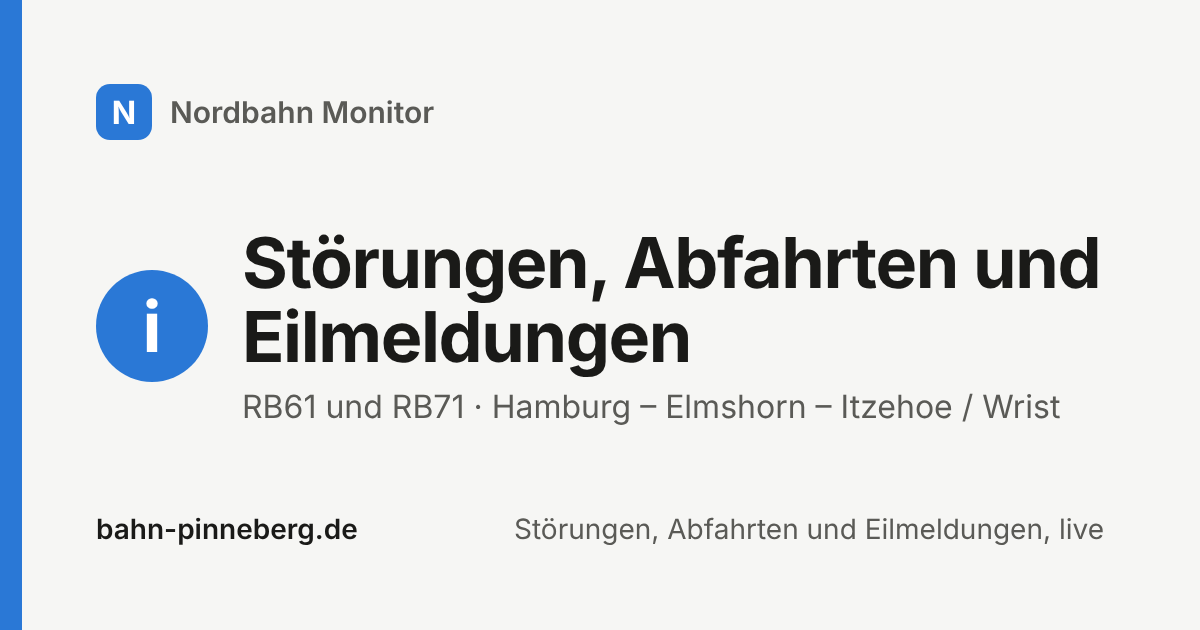
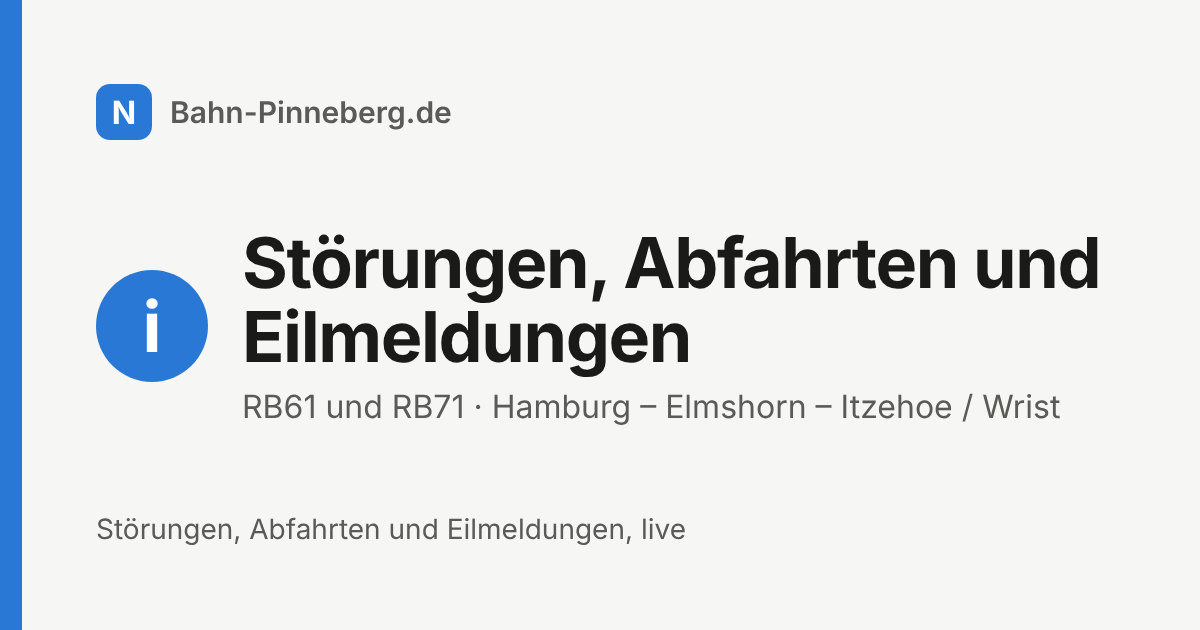
Neuer Name: Bahn-Pinneberg.de statt Nordbahn Monitor
Der Header zeigt nur noch "Bahn-Pinneberg.de" statt "Nordbahn Monitor ·
bahn-pinneberg.de". Der Name ersetzt "Nordbahn Monitor" auch in
Seitentiteln, Strukturdaten (alter Name als alternateName), og:site_name,
Footer, Benachrichtigungen, Manifest, Impressum, FAQ, llms.txt, lage.md
und den Vorschaubildern (neu gebaut). Alte Changelog-Einträge und
Code-Kommentare bleiben.

Claude-Session: https://claude.ai/code/session_01KhF188QwqAjarw5KrHzToa

Changed region(s): [[0.0617, 0.8143, 0.925, 0.8746], [0.1233, 0.1508, 0.37, 0.2111]]

diff --git a/dev/og/build.js b/dev/og/build.js
@@ -2,19 +2,11 @@
 //
 //   node dev/og/build.js            (braucht: npm i -g playwright, Chromium)
 //
-// Die Domain im Fuss kommt aus NORDBAHN_SITE_URL in config.php, sonst
-// bahn-pinneberg.de. Farben wie die Lagekarten der Seite.
+// Farben wie die Lagekarten der Seite.
 const { chromium } = require('playwright');
 const path = require('path');
-const fs = require('fs');
 
 const root = path.resolve(__dirname, '..', '..');
-let domain = 'bahn-pinneberg.de';
-try {
-  const cfg = fs.readFileSync(path.join(root, 'config.php'), 'utf8');
-  const m = cfg.match(/NORDBAHN_SITE_URL'\s*=>\s*'https?:\/\/([^'\/]+)/);
-  if (m) domain = m[1];
-} catch (e) { /* keine config.php: Standard */ }
 
 const LAGEN = [
   { name: 'ok',    color: '#1aa139', icon: '✓', title: 'Keine Störung auf der Strecke' },
@@ -33,8 +25,7 @@ const LAGEN = [
       document.body.style.setProperty('--c', l.color);
       document.getElementById('icon').textContent = l.icon;
       document.getElementById('title').textContent = l.title;
-      document.getElementById('domain').textContent = l.domain;
-    }, { ...l, domain });
+    }, l);
     const out = path.join(root, 'og', l.name + '.png');
     await page.screenshot({ path: out, type: 'png' });
     console.log('geschrieben', path.relative(root, out));

diff --git a/dashboard.css b/dashboard.css
@@ -110,10 +110,6 @@ button { font: inherit; color: inherit; }
 .site-head { border-bottom: 1px solid var(--line); background: var(--surface); }
 .site-head__row { display: flex; justify-content: space-between; align-items: center; height: 48px; }
 .site-head__brand { font-weight: 600; text-decoration: none; font-size: 14px; }
-.site-head__domain { font-weight: 400; color: var(--muted); }
-.site-head__domain::before { content: "\00b7"; margin: 0 6px 0 2px; }
-@media (max-width: 359px) { .site-head__domain { display: none; } }
-@media (max-width: 560px) { .site-head__row:has(.zurueck) .site-head__domain { display: none; } }
 .site-head__tools { display: flex; gap: 4px; align-items: center; }
 .tool {
 	display: inline-flex; align-items: center; gap: 6px; height: 32px; padding: 0 10px; border-radius: 8px;

diff --git a/dev/og/template.html b/dev/og/template.html
@@ -18,8 +18,8 @@ body { width: 1200px; height: 630px; font-family: Inter, system-ui, sans-serif; 
 </style></head><body>
 <div class="bar"></div>
 <div class="wrap">
-  <div class="brand"><div class="n">N</div>Nordbahn Monitor</div>
+  <div class="brand"><div class="n">N</div>Bahn-Pinneberg.de</div>
   <div class="status"><div class="icon" id="icon">✓</div><div><div class="title" id="title">Keine Störung auf der Strecke</div><div class="sub">RB61 und RB71 · Hamburg – Elmshorn – Itzehoe / Wrist</div></div></div>
-  <div class="foot"><span><b id="domain">bahn-pinneberg.de</b></span><span>Störungen, Abfahrten und Eilmeldungen, live</span></div>
+  <div class="foot"><span>Störungen, Abfahrten und Eilmeldungen, live</span></div>
 </div>
 </body></html>

diff --git a/dashboard.js b/dashboard.js
@@ -1100,7 +1100,7 @@
 						var body = pushActive()
 							? 'Du bekommst jetzt eine Meldung bei neuen Zugausfällen und Störungen, auch wenn die Seite zu ist.'
 							: 'Du bekommst jetzt eine Meldung bei neuen Zugausfällen und Störungen, solange die Seite offen ist.';
-						new Notification('Nordbahn Monitor', { body: body, icon: root() + 'favicon.svg', lang: 'de' });
+						new Notification('Bahn-Pinneberg.de', { body: body, icon: root() + 'favicon.svg', lang: 'de' });
 					} catch (e) { /* egal */ }
 					renderNotifyButton();
 				};

diff --git a/sw.js b/sw.js
@@ -18,7 +18,7 @@ self.addEventListener('push', function (event) {
 		data: { url: data.url || './' }
 	};
 	if (data.ts) options.timestamp = data.ts * 1000;
-	event.waitUntil(self.registration.showNotification(data.title || 'Nordbahn Monitor', options));
+	event.waitUntil(self.registration.showNotification(data.title || 'Bahn-Pinneberg.de', options));
 });
 
 self.addEventListener('notificationclick', function (event) {

diff --git a/impressum/index.php b/impressum/index.php
@@ -27,10 +27,9 @@ $imp += [
 ];
 $vollstaendig = $imp['name'] !== '' && $imp['strasse'] !== '' && $imp['ort'] !== '' && $imp['email'] !== '';
 $anschrift = array_values(array_filter([$imp['name'], $imp['zusatz'], $imp['strasse'], $imp['ort'], $imp['land']], 'strlen'));
-$host = nordbahn_site_host();
 
-$title = 'Impressum und Datenschutz – Nordbahn Monitor';
-$description = 'Anbieterkennzeichnung und Datenschutzerklärung des Nordbahn Monitors auf ' . $host . '.';
+$title = 'Impressum und Datenschutz – Bahn-Pinneberg.de';
+$description = 'Anbieterkennzeichnung und Datenschutzerklärung von Bahn-Pinneberg.de.';
 ?>
 <!DOCTYPE html>
 <html lang="de">
@@ -45,7 +44,7 @@ $description = 'Anbieterkennzeichnung und Datenschutzerklärung des Nordbahn Mon
 <meta name="theme-color" content="#f6f6f4" media="(prefers-color-scheme: light)">
 <meta name="theme-color" content="#121211" media="(prefers-color-scheme: dark)">
 <meta property="og:type" content="website">
-<meta property="og:site_name" content="Nordbahn Monitor">
+<meta property="og:site_name" content="Bahn-Pinneberg.de">
 <meta property="og:locale" content="de_DE">
 <meta property="og:url" content="<?= SITE_URL ?>/impressum/">
 <meta property="og:title" content="<?= nb_e($title) ?>">
@@ -59,7 +58,7 @@ $description = 'Anbieterkennzeichnung und Datenschutzerklärung des Nordbahn Mon
 
 <header class="site-head">
 	<div class="wrap site-head__row">
-		<a class="site-head__brand" href="<?= $root ?>">Nordbahn Monitor <span class="site-head__domain"><?= nb_e($host) ?></span></a>
+		<a class="site-head__brand" href="<?= $root ?>">Bahn-Pinneberg.de</a>
 		<nav class="site-head__tools" aria-label="Zur&uuml;ck">
 			<a class="tool" href="<?= $root ?>">Zur Lage</a>
 		</nav>
@@ -70,7 +69,7 @@ $description = 'Anbieterkennzeichnung und Datenschutzerklärung des Nordbahn Mon
 	<div class="page-head">
 		<div>
 			<h1>Impressum</h1>
-			<p class="page-head__lead">Wer hinter dem Nordbahn Monitor steht und was mit Ihren Daten passiert.</p>
+			<p class="page-head__lead">Wer hinter Bahn-Pinneberg.de steht und was mit Ihren Daten passiert.</p>
 		</div>
 	</div>
 
@@ -87,7 +86,7 @@ $description = 'Anbieterkennzeichnung und Datenschutzerklärung des Nordbahn Mon
 			<p><strong>Die Anbieterangaben sind noch nicht hinterlegt.</strong> Sie werden in der Konfiguration des Servers gepflegt (NORDBAHN_IMPRESSUM in config.php).</p>
 <?php endif; ?>
 			<h2>Hinweis zum Projekt</h2>
-			<p>Der Nordbahn Monitor ist ein privates, nicht kommerzielles Projekt ohne Verbindung zur NBE Nordbahn Eisenbahngesellschaft mbH, zur DB InfraGO AG oder zur NAH.SH GmbH. Alle Angaben zu St&ouml;rungen, Abfahrten und Eilmeldungen stammen aus &ouml;ffentlichen Quellen (nordbahn.de, strecken-info.de, HVV-Schnittstelle) und werden automatisch aufbereitet. F&uuml;r Richtigkeit, Vollst&auml;ndigkeit und Aktualit&auml;t wird keine Gew&auml;hr &uuml;bernommen. Verbindlich sind allein die Ausk&uuml;nfte der Nordbahn.</p>
+			<p>Bahn-Pinneberg.de ist ein privates, nicht kommerzielles Projekt ohne Verbindung zur NBE Nordbahn Eisenbahngesellschaft mbH, zur DB InfraGO AG oder zur NAH.SH GmbH. Alle Angaben zu St&ouml;rungen, Abfahrten und Eilmeldungen stammen aus &ouml;ffentlichen Quellen (nordbahn.de, strecken-info.de, HVV-Schnittstelle) und werden automatisch aufbereitet. F&uuml;r Richtigkeit, Vollst&auml;ndigkeit und Aktualit&auml;t wird keine Gew&auml;hr &uuml;bernommen. Verbindlich sind allein die Ausk&uuml;nfte der Nordbahn.</p>
 			<h2>Haftung f&uuml;r Links</h2>
 			<p>Die Seite verlinkt auf Angebote Dritter (nordbahn.de, strecken-info.de, Telegram, X). Auf deren Inhalte habe ich keinen Einfluss; es gelten die Angaben der jeweiligen Anbieter.</p>
 		</div>

diff --git a/changelog/index.php b/changelog/index.php
@@ -15,6 +15,7 @@ $assetVersion = (int) @filemtime(__DIR__ . '/../dashboard.css');
 
 $changelog = [
     ['2026-10-23', [
+        ['Neuer Name: Bahn-Pinneberg.de', 'Die Seite heißt jetzt wie ihre Adresse. Im Header steht nur noch „Bahn-Pinneberg.de“ statt „Nordbahn Monitor · bahn-pinneberg.de“, ebenso in Seitentiteln, Footer, Benachrichtigungen, App-Name und Vorschaubildern.'],
         ['Eilmeldungskarte ohne alten Hinweis', 'Die grüne Karte „Keine akuten Eilmeldungen“ nennt die letzte Meldung („Letzte vor 6 Std.“) nur noch bis zwölf Stunden danach. Die Nordbahn liefert keine Gültigkeit mit, der Hinweis soll nur zeigen, ob eine jüngere Meldung noch nachwirken kann.'],
         ['Ein Bereich „Aktuelle Meldungen“', 'Statt vier Listen („Wichtig in den letzten 24 Stunden“, „Letzte Eilmeldungen“, „Letzte Infrastrukturstörungen“, „Letzte HVV-Meldungen“) gibt es direkt unter den Lagekarten einen Bereich mit dem, was gerade gilt: Eilmeldungen der letzten vier Stunden, Störungen bis eine Stunde nach ihrer Aufhebung und ungeplante HVV-Meldungen. Geplante HVV-Hinweise wie Bauarbeiten oder Vorankündigungen fallen weg, weil ihr Zeitraum oft nur der der Ankündigung ist. Doppelte HVV-Meldungen erscheinen nur einmal. Ist nichts los, bleibt eine Zeile übrig. Der Rückblick steht unter „Verlauf“ sowie bei allen Eilmeldungen und Störungen.'],
     ]],
@@ -96,12 +97,12 @@ $changelog = [
 $jsonLd = [
     '@context' => 'https://schema.org',
     '@type' => 'WebPage',
-    'name' => 'Was ist neu – Nordbahn Monitor',
+    'name' => 'Was ist neu – Bahn-Pinneberg.de',
     'url' => SITE_URL . '/changelog/',
     'inLanguage' => 'de',
 ];
-$title = 'Was ist neu – Nordbahn Monitor';
-$description = 'Alle Änderungen am Nordbahn Monitor nach Datum: neue Funktionen, Korrekturen und Anpassungen an Lage, Abfahrten und Eilmeldungen.';
+$title = 'Was ist neu – Bahn-Pinneberg.de';
+$description = 'Alle Änderungen an Bahn-Pinneberg.de nach Datum: neue Funktionen, Korrekturen und Anpassungen an Lage, Abfahrten und Eilmeldungen.';
 
 function nb_datum($iso)
 {
@@ -123,7 +124,7 @@ function nb_datum($iso)
 <meta name="theme-color" content="#f6f6f4" media="(prefers-color-scheme: light)">
 <meta name="theme-color" content="#121211" media="(prefers-color-scheme: dark)">
 <meta property="og:type" content="website">
-<meta property="og:site_name" content="Nordbahn Monitor">
+<meta property="og:site_name" content="Bahn-Pinneberg.de">
 <meta property="og:locale" content="de_DE">
 <meta property="og:url" content="<?= SITE_URL ?>/changelog/">
 <meta property="og:title" content="<?= nb_e($title) ?>">
@@ -141,7 +142,7 @@ function nb_datum($iso)
 
 <header class="site-head">
 	<div class="wrap site-head__row">
-		<a class="site-head__brand" href="<?= $root ?>">Nordbahn Monitor <span class="site-head__domain"><?= htmlspecialchars(nordbahn_site_host(), ENT_QUOTES, 'UTF-8') ?></span></a>
+		<a class="site-head__brand" href="<?= $root ?>">Bahn-Pinneberg.de</a>
 		<nav class="site-head__tools" aria-label="Zur&uuml;ck">
 			<a class="tool" href="<?= $root ?>">Zur Lage</a>
 		</nav>
@@ -152,7 +153,7 @@ function nb_datum($iso)
 	<div class="page-head">
 		<div>
 			<h1>Was ist neu</h1>
-			<p class="page-head__lead">Alle &Auml;nderungen am Nordbahn Monitor, neueste zuerst.</p>
+			<p class="page-head__lead">Alle &Auml;nderungen an Bahn-Pinneberg.de, neueste zuerst.</p>
 		</div>
 	</div>
 

diff --git a/eilmeldung.php b/eilmeldung.php
@@ -24,16 +24,16 @@ $now = time();
 
 if (!$gefunden) {
     http_response_code(404);
-    $title = 'Eilmeldung nicht gefunden – Nordbahn Monitor';
+    $title = 'Eilmeldung nicht gefunden – Bahn-Pinneberg.de';
     $ogTitle = 'Eilmeldung nicht gefunden';
-    $description = 'Diese Eilmeldung ist nicht im Archiv des Nordbahn Monitors.';
+    $description = 'Diese Eilmeldung ist nicht im Archiv von Bahn-Pinneberg.de.';
     $pageUrl = SITE_URL . '/eilmeldungen/';
     $ogBild = 'info';
     $jsonLd = null;
 } else {
     $ts = $em['stand'] ?? $em['ts'];
     $titel = $em['title'] !== '' ? $em['title'] : $em['id'];
-    $title = $titel . ' – Eilmeldung der Nordbahn vom ' . date('d.m.Y', $ts) . ' – Nordbahn Monitor';
+    $title = $titel . ' – Eilmeldung der Nordbahn vom ' . date('d.m.Y', $ts) . ' – Bahn-Pinneberg.de';
     $ogTitle = $titel;
     $description = mb_substr(($em['text'] !== '' ? $em['text'] . ' ' : '') . 'Eilmeldung der Nordbahn vom ' . nb_fmt_datetime(date('c', $ts)) . ($em['original'] !== '' && $em['original'] !== $titel ? ' („' . $em['original'] . '“).' : '.'), 0, 300);
     $pageUrl = nb_ereignis_url('eilmeldung', $id, $titel);
@@ -47,8 +47,8 @@ if (!$gefunden) {
         'datePublished' => date('c', $ts),
         'inLanguage' => 'de',
         'mainEntityOfPage' => $pageUrl,
-        'author' => ['@type' => 'Organization', 'name' => 'Nordbahn Monitor', 'url' => SITE_URL . '/'],
-        'publisher' => ['@type' => 'Organization', 'name' => 'Nordbahn Monitor', 'url' => SITE_URL . '/'],
+        'author' => ['@type' => 'Organization', 'name' => 'Bahn-Pinneberg.de', 'url' => SITE_URL . '/'],
+        'publisher' => ['@type' => 'Organization', 'name' => 'Bahn-Pinneberg.de', 'url' => SITE_URL . '/'],
     ];
     $stoerungen = nb_stoerungen_im_zeitraum($data, $ts - 3600, $ts + 3 * 3600);
     $zuege = nb_zuege_im_zeitraum($ts - 1800, $ts + 4 * 3600, 0, 20);
@@ -67,7 +67,7 @@ if (!$gefunden) {
 <meta name="theme-color" content="#f6f6f4" media="(prefers-color-scheme: light)">
 <meta name="theme-color" content="#121211" media="(prefers-color-scheme: dark)">
 <meta property="og:type" content="article">
-<meta property="og:site_name" content="Nordbahn Monitor">
+<meta property="og:site_name" content="Bahn-Pinneberg.de">
 <meta property="og:locale" content="de_DE">
 <meta property="og:url" content="<?= nb_e($pageUrl) ?>">
 <meta property="og:title" content="<?= nb_e($ogTitle) ?>">
@@ -87,7 +87,7 @@ if (!$gefunden) {
 
 <header class="site-head">
 	<div class="wrap site-head__row">
-		<a class="site-head__brand" href="<?= $root ?>">Nordbahn Monitor <span class="site-head__domain"><?= htmlspecialchars(nordbahn_site_host(), ENT_QUOTES, 'UTF-8') ?></span></a>
+		<a class="site-head__brand" href="<?= $root ?>">Bahn-Pinneberg.de</a>
 		<nav class="site-head__tools" aria-label="Zur&uuml;ck">
 			<a class="zurueck" href="<?= $root ?>"><svg class="zurueck__icon" viewBox="0 0 24 24" aria-hidden="true"><path d="M20 11H7.8l5.6-5.6L12 4l-8 8 8 8 1.4-1.4L7.8 13H20v-2Z"/></svg><span class="zurueck__lang">Zur&uuml;ck zur Startseite</span><span class="zurueck__kurz">Startseite</span></a>
 		</nav>

diff --git a/stoerung.php b/stoerung.php
@@ -24,15 +24,15 @@ $now = time();
 
 if (!$gefunden) {
     http_response_code(404);
-    $title = 'Störung nicht gefunden – Nordbahn Monitor';
+    $title = 'Störung nicht gefunden – Bahn-Pinneberg.de';
     $ogTitle = 'Störung nicht gefunden';
-    $description = 'Diese Störung ist nicht im Logbuch des Nordbahn Monitors.';
+    $description = 'Diese Störung ist nicht im Logbuch von Bahn-Pinneberg.de.';
     $pageUrl = SITE_URL . '/stoerungen/';
     $ogBild = 'info';
     $jsonLd = null;
 } else {
     $dauer = nb_dauer($st['ende'] - $st['start']);
-    $title = $st['titel'] . ' – ' . date('d.m.Y', $st['start']) . ' – Nordbahn Monitor';
+    $title = $st['titel'] . ' – ' . date('d.m.Y', $st['start']) . ' – Bahn-Pinneberg.de';
     $ogTitle = $st['titel'];
     $description = ($st['ki_text'] !== '' ? $st['ki_text'] : ($st['text'] !== '' ? $st['text'] : $st['titel_technisch']))
         . ' Störung auf der Nordbahn-Strecke ' . ($st['aktiv'] ? 'seit ' : 'vom ') . nb_fmt_datetime(date('c', $st['start'])) . ($st['aktiv'] ? ', dauert an.' : ', aufgehoben nach ' . $dauer . '.');
@@ -49,8 +49,8 @@ if (!$gefunden) {
         'dateModified' => date('c', $st['ende']),
         'inLanguage' => 'de',
         'mainEntityOfPage' => $pageUrl,
-        'author' => ['@type' => 'Organization', 'name' => 'Nordbahn Monitor', 'url' => SITE_URL . '/'],
-        'publisher' => ['@type' => 'Organization', 'name' => 'Nordbahn Monitor', 'url' => SITE_URL . '/'],
+        'author' => ['@type' => 'Organization', 'name' => 'Bahn-Pinneberg.de', 'url' => SITE_URL . '/'],
+        'publisher' => ['@type' => 'Organization', 'name' => 'Bahn-Pinneberg.de', 'url' => SITE_URL . '/'],
     ];
     $zuege = nb_zuege_im_zeitraum($st['start'], $st['ende']);
     $eil = nb_eilmeldungen_im_zeitraum(nb_items($data), $st['start'], $st['ende']);
@@ -78,7 +78,7 @@ if (!$gefunden) {
 <meta name="theme-color" content="#f6f6f4" media="(prefers-color-scheme: light)">
 <meta name="theme-color" content="#121211" media="(prefers-color-scheme: dark)">
 <meta property="og:type" content="article">
-<meta property="og:site_name" content="Nordbahn Monitor">
+<meta property="og:site_name" content="Bahn-Pinneberg.de">
 <meta property="og:locale" content="de_DE">
 <meta property="og:url" content="<?= nb_e($pageUrl) ?>">
 <meta property="og:title" content="<?= nb_e($ogTitle) ?>">
@@ -98,7 +98,7 @@ if (!$gefunden) {
 
 <header class="site-head">
 	<div class="wrap site-head__row">
-		<a class="site-head__brand" href="<?= $root ?>">Nordbahn Monitor <span class="site-head__domain"><?= htmlspecialchars(nordbahn_site_host(), ENT_QUOTES, 'UTF-8') ?></span></a>
+		<a class="site-head__brand" href="<?= $root ?>">Bahn-Pinneberg.de</a>
 		<nav class="site-head__tools" aria-label="Zur&uuml;ck">
 			<a class="zurueck" href="<?= $root ?>"><svg class="zurueck__icon" viewBox="0 0 24 24" aria-hidden="true"><path d="M20 11H7.8l5.6-5.6L12 4l-8 8 8 8 1.4-1.4L7.8 13H20v-2Z"/></svg><span class="zurueck__lang">Zur&uuml;ck zur Startseite</span><span class="zurueck__kurz">Startseite</span></a>
 		</nav>

diff --git a/faq/index.php b/faq/index.php
@@ -37,7 +37,7 @@ $faq = [
     ['Gibt es die Daten auch für Programme oder KI-Assistenten?',
      'Ja. Unter /lage.md steht die aktuelle Lage als Text (Markdown), unter /llms.txt eine Beschreibung der Seite und der Datenfelder, und /api/data sowie /api/abfahrten?bhf=APD liefern alles als JSON. Alles öffentlich und ohne Schlüssel, bitte nicht häufiger als einmal pro Minute abrufen.'],
     ['Ist das eine offizielle Seite der Nordbahn?',
-     'Nein. Der Nordbahn Monitor ist ein privates Projekt ohne Verbindung zur NBE Nordbahn Eisenbahngesellschaft, Betreiber siehe Impressum. Verbindliche Auskünfte gibt es auf nordbahn.de.'],
+     'Nein. Bahn-Pinneberg.de ist ein privates Projekt ohne Verbindung zur NBE Nordbahn Eisenbahngesellschaft, Betreiber siehe Impressum. Verbindliche Auskünfte gibt es auf nordbahn.de.'],
 ];
 $jsonLd = [
     '@context' => 'https://schema.org',
@@ -46,8 +46,8 @@ $jsonLd = [
         return ['@type' => 'Question', 'name' => $qa[0], 'acceptedAnswer' => ['@type' => 'Answer', 'text' => $qa[1]]];
     }, $faq),
 ];
-$title = 'Häufige Fragen – Nordbahn Monitor';
-$description = 'Wie der Nordbahn Monitor Störungen, Abfahrten und Eilmeldungen der RB61 und RB71 ermittelt, woher die Daten kommen und wie Benachrichtigungen funktionieren.';
+$title = 'Häufige Fragen – Bahn-Pinneberg.de';
+$description = 'Wie Bahn-Pinneberg.de Störungen, Abfahrten und Eilmeldungen der RB61 und RB71 ermittelt, woher die Daten kommen und wie Benachrichtigungen funktionieren.';
 ?>
 <!DOCTYPE html>
 <html lang="de">
@@ -62,7 +62,7 @@ $description = 'Wie der Nordbahn Monitor Störungen, Abfahrten und Eilmeldungen 
 <meta name="theme-color" content="#f6f6f4" media="(prefers-color-scheme: light)">
 <meta name="theme-color" content="#121211" media="(prefers-color-scheme: dark)">
 <meta property="og:type" content="website">
-<meta property="og:site_name" content="Nordbahn Monitor">
+<meta property="og:site_name" content="Bahn-Pinneberg.de">
 <meta property="og:locale" content="de_DE">
 <meta property="og:url" content="<?= SITE_URL ?>/faq/">
 <meta property="og:title" content="<?= nb_e($title) ?>">
@@ -80,7 +80,7 @@ $description = 'Wie der Nordbahn Monitor Störungen, Abfahrten und Eilmeldungen 
 
 <header class="site-head">
 	<div class="wrap site-head__row">
-		<a class="site-head__brand" href="<?= $root ?>">Nordbahn Monitor <span class="site-head__domain"><?= htmlspecialchars(nordbahn_site_host(), ENT_QUOTES, 'UTF-8') ?></span></a>
+		<a class="site-head__brand" href="<?= $root ?>">Bahn-Pinneberg.de</a>
 		<nav class="site-head__tools" aria-label="Zur&uuml;ck">
 			<a class="tool" href="<?= $root ?>">Zur Lage</a>
 		</nav>
@@ -91,7 +91,7 @@ $description = 'Wie der Nordbahn Monitor Störungen, Abfahrten und Eilmeldungen 
 	<div class="page-head">
 		<div>
 			<h1>H&auml;ufige Fragen</h1>
-			<p class="page-head__lead">Wie der Nordbahn Monitor funktioniert und woher die Daten kommen.</p>
+			<p class="page-head__lead">Wie Bahn-Pinneberg.de funktioniert und woher die Daten kommen.</p>
 		</div>
 	</div>
 

diff --git a/index.php b/index.php
@@ -78,7 +78,7 @@ $assetVersion = max((int) @filemtime(__DIR__ . '/dashboard.js'), (int) @filemtim
 $stoerungSatz = $aktiv > 0
     ? $aktiv . ' aktive Störung' . ($aktiv === 1 ? '' : 'en') . ' auf der Nordbahn-Strecke Hamburg – Elmshorn – Itzehoe/Wrist.'
     : 'Störungen heute auf der Nordbahn-Strecke Hamburg – Elmshorn – Itzehoe/Wrist.';
-$title = 'Nordbahn Monitor – Störungen und Abfahrten RB61/RB71 ab Pinneberg, Elmshorn, Itzehoe und Wrist';
+$title = 'Bahn-Pinneberg.de – Störungen und Abfahrten RB61/RB71 ab Pinneberg, Elmshorn, Itzehoe und Wrist';
 $description = $stoerungSatz . ' Dazu die nächsten Züge ab Pinneberg, Prisdorf, Tornesch, Elmshorn, Itzehoe oder Wrist nach Hamburg und zurück sowie die letzten Eilmeldungen zu RB61 und RB71. Live, alle zwei Minuten aktualisiert.';
 $lead = 'Störungen heute, nächste Züge und Eilmeldungen der RB61 und RB71 zwischen Hamburg, Elmshorn, Itzehoe und Wrist.';
 
@@ -89,15 +89,15 @@ $jsonLd = [
         [
             '@type' => 'WebSite',
             '@id' => $pageUrl . '#website',
-            'name' => 'Nordbahn Monitor',
-            'alternateName' => nordbahn_site_host(),
+            'name' => 'Bahn-Pinneberg.de',
+            'alternateName' => 'Nordbahn Monitor',
             'url' => $pageUrl,
             'inLanguage' => 'de',
             'publisher' => $author,
         ],
         [
             '@type' => 'WebApplication',
-            'name' => 'Nordbahn Monitor',
+            'name' => 'Bahn-Pinneberg.de',
             'url' => $pageUrl,
             'description' => $description,
             'applicationCategory' => 'TravelApplication',
@@ -127,7 +127,7 @@ $jsonLd = [
 <meta name="theme-color" content="#121211" media="(prefers-color-scheme: dark)">
 
 <meta property="og:type" content="website">
-<meta property="og:site_name" content="Nordbahn Monitor">
+<meta property="og:site_name" content="Bahn-Pinneberg.de">
 <meta property="og:locale" content="de_DE">
 <meta property="og:url" content="<?= nb_e($pageUrl) ?>">
 <meta property="og:title" content="<?= nb_e($title) ?>">
@@ -156,7 +156,7 @@ $jsonLd = [
 
 <header class="site-head">
 	<div class="wrap site-head__row">
-		<a class="site-head__brand" href="<?= $root ?>">Nordbahn Monitor <span class="site-head__domain"><?= htmlspecialchars(nordbahn_site_host(), ENT_QUOTES, 'UTF-8') ?></span></a>
+		<a class="site-head__brand" href="<?= $root ?>">Bahn-Pinneberg.de</a>
 		<nav class="site-head__tools" aria-label="Aktualisieren und Benachrichtigungen">
 			<button type="button" class="tool tool--refresh" id="refresh-button" title="Jetzt aktualisieren">
 				<svg class="tool__icon" viewBox="0 0 24 24" aria-hidden="true"><path d="M17.65 6.35A7.96 7.96 0 0 0 12 4a8 8 0 1 0 7.74 10h-2.08A6 6 0 1 1 12 6c1.66 0 3.14.69 4.22 1.78L13 11h7V4l-2.35 2.35Z"/></svg>

diff --git a/eilmeldungen/index.php b/eilmeldungen/index.php
@@ -36,7 +36,7 @@ $jsonLd = [
     'description' => $description,
     'url' => $pageUrl,
     'inLanguage' => 'de',
-    'isPartOf' => ['@type' => 'WebSite', 'name' => 'Nordbahn Monitor', 'url' => SITE_URL . '/'],
+    'isPartOf' => ['@type' => 'WebSite', 'name' => 'Bahn-Pinneberg.de', 'url' => SITE_URL . '/'],
 ];
 ?>
 <!DOCTYPE html>
@@ -58,7 +58,7 @@ $jsonLd = [
 <meta name="theme-color" content="#f6f6f4" media="(prefers-color-scheme: light)">
 <meta name="theme-color" content="#121211" media="(prefers-color-scheme: dark)">
 <meta property="og:type" content="website">
-<meta property="og:site_name" content="Nordbahn Monitor">
+<meta property="og:site_name" content="Bahn-Pinneberg.de">
 <meta property="og:locale" content="de_DE">
 <meta property="og:url" content="<?= nb_e($pageUrl) ?>">
 <meta property="og:title" content="<?= nb_e($title) ?>">
@@ -76,7 +76,7 @@ $jsonLd = [
 
 <header class="site-head">
 	<div class="wrap site-head__row">
-		<a class="site-head__brand" href="<?= $root ?>">Nordbahn Monitor <span class="site-head__domain"><?= htmlspecialchars(nordbahn_site_host(), ENT_QUOTES, 'UTF-8') ?></span></a>
+		<a class="site-head__brand" href="<?= $root ?>">Bahn-Pinneberg.de</a>
 		<nav class="site-head__tools" aria-label="Zur&uuml;ck">
 			<a class="tool" href="<?= $root ?>">Zur Lage</a>
 		</nav>
